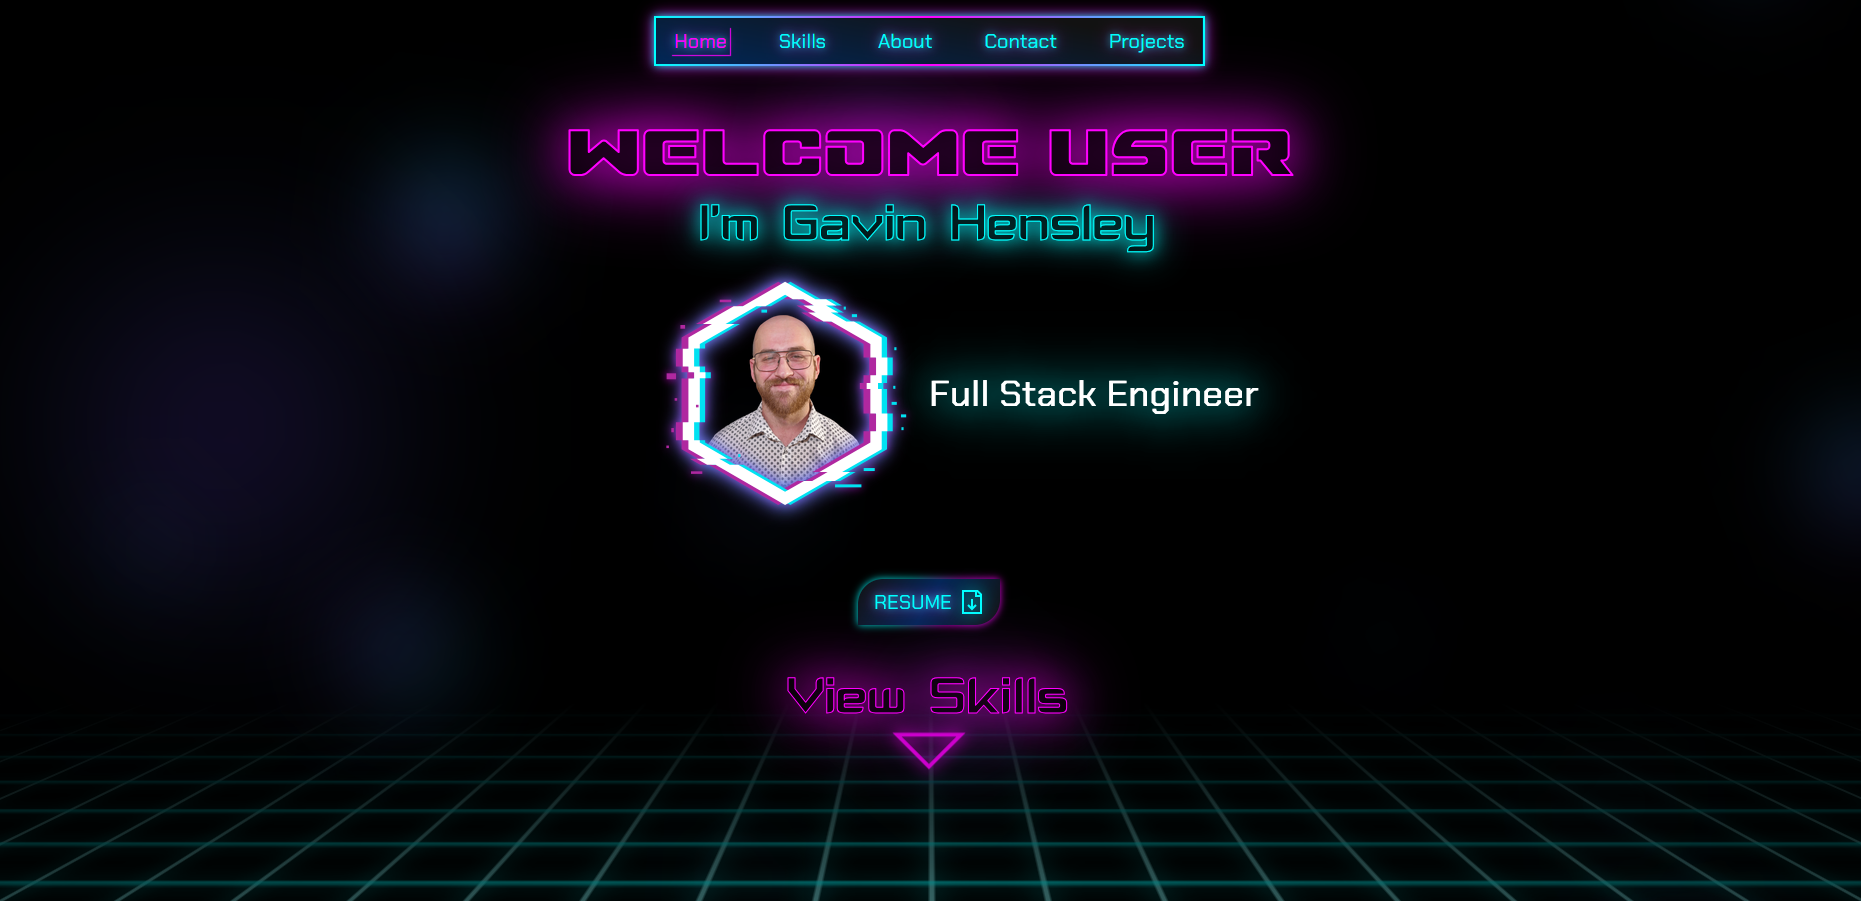
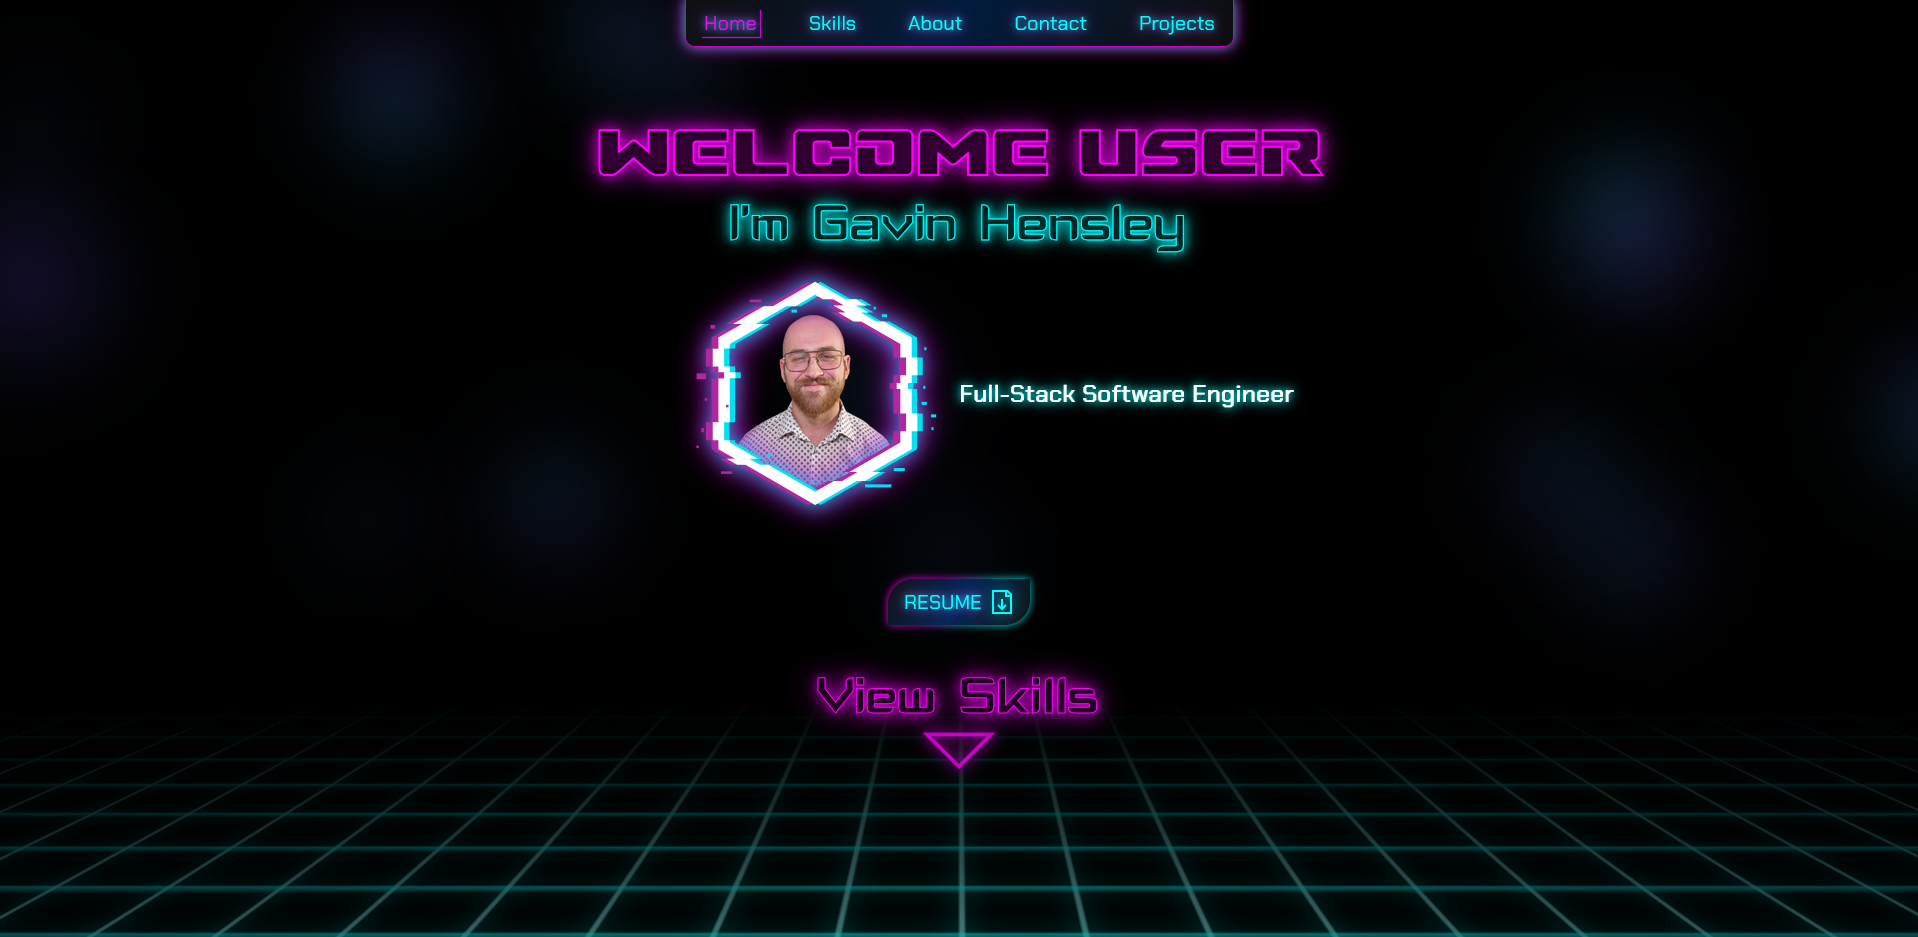
Update seo image, tags, and hero section

diff --git a/index.html b/index.html
@@ -5,27 +5,28 @@
     <meta name="viewport" content="width=device-width, initial-scale=1.0" />
 
       <!-- Standard Meta Tags for SEO -->
-      <title>Gavin Hensley - Full-Stack Engineer Portfolio</title>
-      <meta name="description" content="Portfolio of Gavin Hensley, a self-taught full-stack engineer seeking entry-level opportunities. Explore projects built with React, TypeScript, and Next.js.">
-      <meta name="keywords" content="full-stack engineer, full-stack developer,portfolio, React, TypeScript, Next.js, Node.js, Express, MongoDB, entry-level, web development, Gavin Hensley">
-      <meta charset="UTF-8">
-      <meta name="viewport" content="width=device-width, initial-scale=1.0">
-      <meta name="author" content="Gavin Hensley">
-      <meta name="robots" content="index, follow">
-    
-      <!-- Open Graph Meta Tags for Social Media -->
-      <meta property="og:title" content="Gavin Hensley - Full-Stack Engineer Portfolio">
-      <meta property="og:description" content="Explore my portfolio showcasing full-stack projects built with React, TypeScript, and Node.js. I’m actively seeking entry-level web development opportunities!">
-      <meta property="og:image" content="./src/assets/images/portfolio-screenshot.png">
-      <meta property="og:url" content="https://gavinhensley.dev">
-      <meta property="og:type" content="website">
-      <meta property="og:site_name" content="Gavin Hensley Portfolio">
-    
-      <!-- Twitter Card Meta Tags -->
-      <meta name="twitter:card" content="summary_large_image">
-      <meta name="twitter:title" content="Gavin Hensley - Full-Stack Engineer Portfolio">
-      <meta name="twitter:description" content="Explore my portfolio showcasing full-stack projects built with React, TypeScript, and Node.js. I’m actively seeking entry-level web development opportunities!">
-      <meta name="twitter:image" content="./src/assets/images/portfolio-screenshot.png">
+    <title>Gavin Hensley – Full-Stack Software Engineer Portfolio</title>
+    <meta name="description" content="Portfolio of Gavin Hensley, a full-stack software engineer skilled in React, TypeScript, Node.js, and Supabase. Actively seeking front-end, back-end, and full-stack engineering roles.">
+    <meta name="keywords" content="full-stack software engineer, front-end developer, back-end developer, React, TypeScript, Next.js, Node.js, Supabase, GraphQL, web development, Gavin Hensley">
+    <meta charset="UTF-8">
+    <meta name="viewport" content="width=device-width, initial-scale=1.0">
+    <meta name="author" content="Gavin Hensley">
+    <meta name="robots" content="index, follow">
+
+    <!-- Open Graph Meta Tags for Social Media -->
+    <meta property="og:title" content="Gavin Hensley – Full-Stack Software Engineer Portfolio">
+    <meta property="og:description" content="Explore my portfolio showcasing modern full-stack projects built with React, TypeScript, Node.js, and Supabase. Open to front-end, back-end, and full-stack engineering roles.">
+    <meta property="og:image" content="./src/assets/images/portfolio-screenshot.png">
+    <meta property="og:url" content="https://gavinhensley.dev">
+    <meta property="og:type" content="website">
+    <meta property="og:site_name" content="Gavin Hensley Portfolio">
+
+    <!-- Twitter Card Meta Tags -->
+    <meta name="twitter:card" content="summary_large_image">
+    <meta name="twitter:title" content="Gavin Hensley – Full-Stack Software Engineer Portfolio">
+    <meta name="twitter:description" content="Explore my portfolio featuring modern web applications built with React, TypeScript, and Node.js. I'm open to front-end, back-end, and full-stack engineering roles.">
+    <meta name="twitter:image" content="./src/assets/images/portfolio-screenshot.png">
+    <meta name="twitter:creator" content="@GavinHensleyDev">
 
     <!-- Google tag (gtag.js) -->
     <script async src="https://www.googletagmanager.com/gtag/js?id=G-ET6YVNHDF0"></script>

diff --git a/src/components/projectsComponents/ProjectCard.tsx b/src/components/projectsComponents/ProjectCard.tsx
@@ -26,7 +26,7 @@ export default function ProjectCard({
   }) => void;
 }) {
 
-  const motionDelay = index * 0.3;
+  const motionDelay = index * 0.1;
 
   return (
     <motion.div className='group relative flex flex-col items-center rounded-tr-xl rounded-bl-xl shadow-lg shadow-black/40 hover:shadow-xl 2xl:w-[21%]

diff --git a/src/components/homeComponents/HeroSection.tsx b/src/components/homeComponents/HeroSection.tsx
@@ -25,7 +25,7 @@ export default function HeroSection({
     2000,
     'Web Designer',
     2000,
-    'WGU SWE Student',
+    'WGU SWE Alumni',
     2000,
   ];
 
